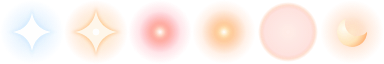
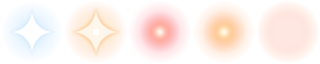
«Ночной дозор»: мягче боке переднего плана, без лишнего полумесяца (луна уже есть в рамке и на аватаре)
Claude-Session: https://claude.ai/code/session_015XhgY5ChdzqxvDaycTDkps

diff --git a/android/app/src/main/java/app/yoru/anime/Sprites.java b/android/app/src/main/java/app/yoru/anime/Sprites.java
@@ -94,7 +94,7 @@ final class Sprites {
   return true;
  }
 
- /** «Ночной дозор» (набор администрации): дальние звёзды, огоньки зари, размытое боке у «камеры», полумесяц и кометы; дальние слои медленнее. */
+ /** «Ночной дозор» (набор администрации): дальние звёзды, огоньки зари, размытое боке у «камеры» и кометы; дальние слои медленнее. */
  static boolean nightWatch(Canvas canvas,Context c,float w,float h,float density){
   Sheet s=get(c,"fx_night",false);if(s==null)return false;Sheet comet=get(c,"fx_night_comet",false);
   float sec=SystemClock.uptimeMillis()/1000f*EFFECT_PACE;Random r=new Random(4242);
@@ -106,7 +106,6 @@ final class Sprites {
    draw(canvas,s,variant,rx*w+(float)Math.sin(sec*.7f*speed+phase*9)*16*density*depth,h*(1.08f-p*1.2f),size,size,0,(float)Math.sin(p*Math.PI)*(.5f+.45f*depth),false,false);}
   for(int i=0;i<3;i++){float rx=r.nextFloat(),ry=r.nextFloat(),phase=r.nextFloat(),size=(64+40*r.nextFloat())*density;float p=(sec*.02f+phase)%1f;
    draw(canvas,s,4,w*(rx*.8f-.1f+p*.4f),h*(.15f+ry*.7f)+(float)Math.sin(sec*.3f+i)*12*density,size,size,0,.45f*(float)Math.sin(p*Math.PI),false,false);}
-  float ms=Math.min(36*density,h*.16f);draw(canvas,s,5,w-ms*1.4f+(float)Math.sin(sec*.35f)*6*density,ms*1.3f+(float)Math.cos(sec*.45f)*5*density,ms,ms,(float)Math.sin(sec*.5f)*8,.85f,false,false);
   if(comet!=null)for(int i=0;i<2;i++){float rx=r.nextFloat(),ry=r.nextFloat(),phase=r.nextFloat();float p=(sec*.085f+phase)%1f;if(p>.32f)continue;float q=p/.32f,dx=-w*.55f,dy=h*.5f,len=Math.min(200*density,w*.34f);
    draw(canvas,comet,0,w*(.6f+rx*.45f)+q*dx,h*(ry*.3f-.08f)+q*dy,len,len*comet.h/comet.w,(float)Math.toDegrees(Math.atan2(dy,dx)),(float)Math.sin(q*Math.PI),false,false);}
   return true;

diff --git a/Yoru/Sprites.cs b/Yoru/Sprites.cs
@@ -135,7 +135,7 @@ public static class Sprites
     }
 
     /// <summary>«Ночной дозор» (набор администрации): три слоя глубины — дальние звёзды, огоньки зари, размытое боке
-    /// у «камеры», плюс полумесяц и кометы. Дальние слои движутся медленнее (параллакс).</summary>
+    /// у «камеры», плюс кометы. Дальние слои движутся медленнее (параллакс).</summary>
     static bool NightWatch(DrawingContext dc, double w, double h)
     {
         var s = Get("fx_night"); if (s == null) return false;
@@ -161,8 +161,6 @@ public static class Sprites
             var p = (sec * .02 + phase) % 1;
             Draw(dc, s, 4, w * (rx * .8 - .1 + p * .4), h * (.15 + ry * .7) + Math.Sin(sec * .3 + i) * 12, size, size, 0, .45 * Math.Sin(p * Math.PI));
         }
-        var ms = Math.Min(42, h * .16);
-        Draw(dc, s, 5, w - ms * 1.4 + Math.Sin(sec * .35) * 6, ms * 1.3 + Math.Cos(sec * .45) * 5, ms, ms, Math.Sin(sec * .5) * 8, .85);
         if (comet != null)
             for (var i = 0; i < 2; i++)
             {
